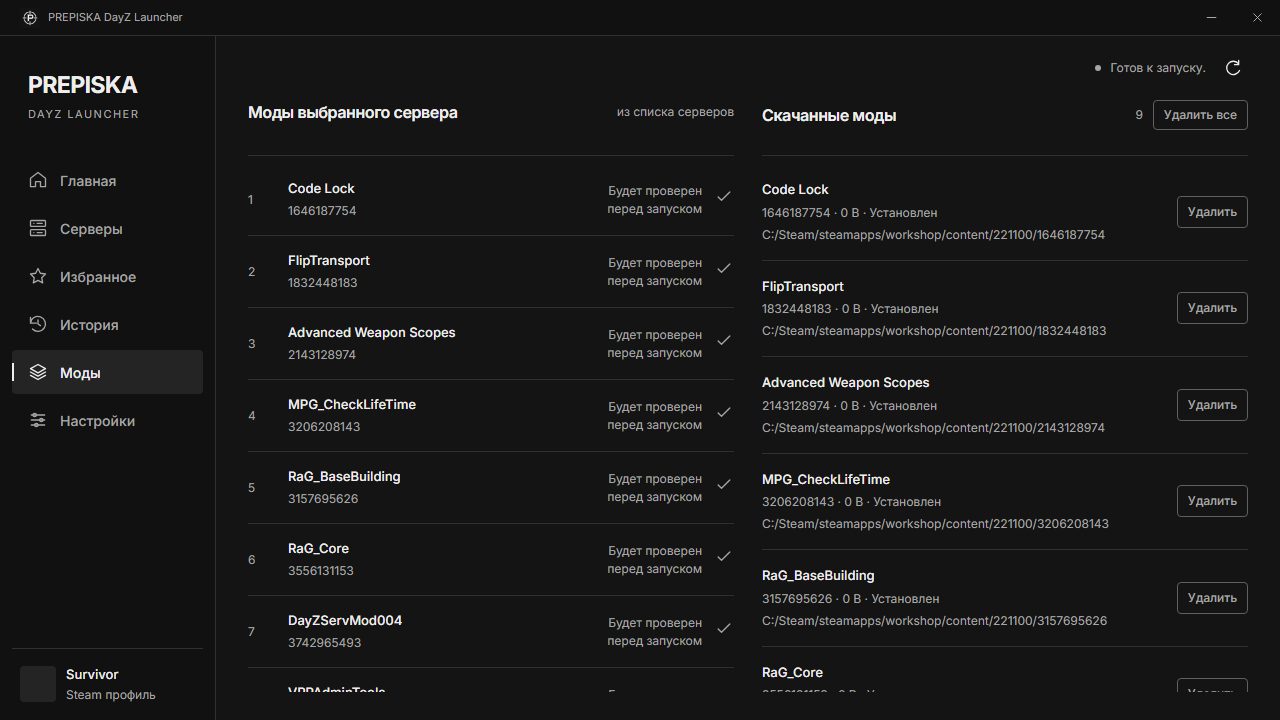
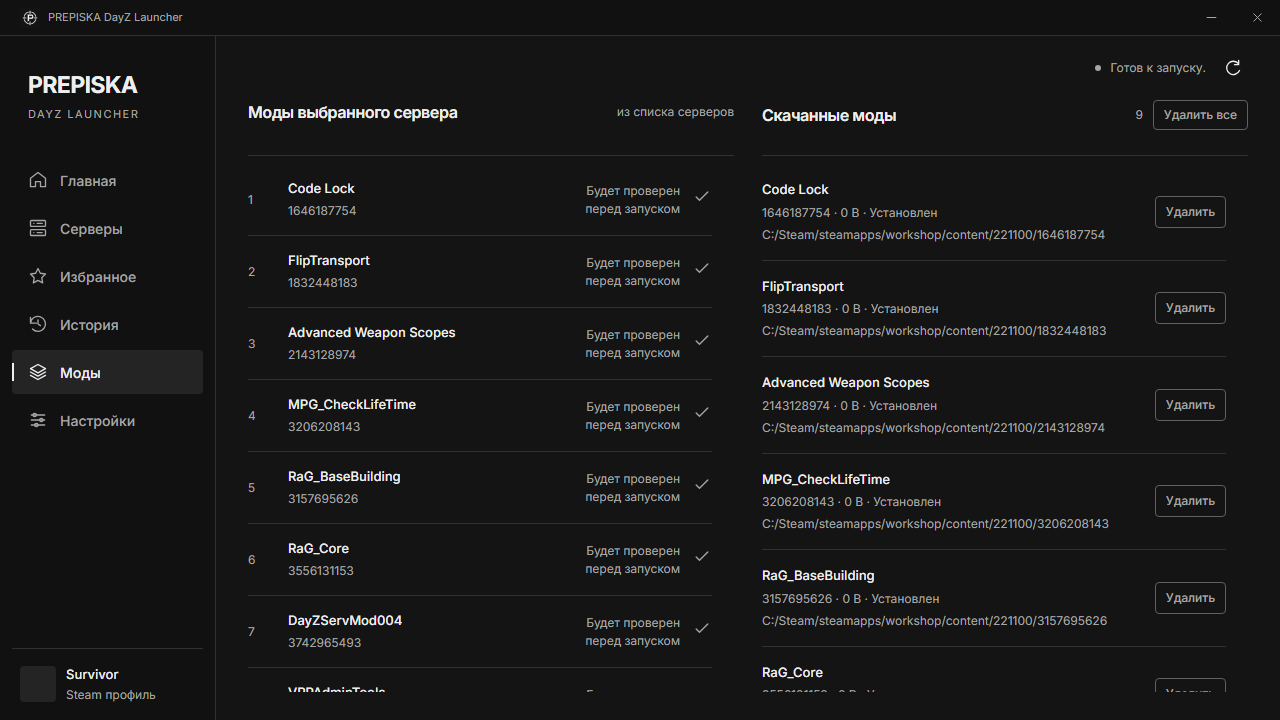
Add spacing before list scrollbars; release launcher 1.2.4

diff --git a/src/PrepiskaLauncher/Ui/styles.css b/src/PrepiskaLauncher/Ui/styles.css
@@ -81,7 +81,7 @@ svg { width: 20px; height: 20px; fill: none; stroke: currentColor; stroke-width:
 .filters input, .filters select, .field input, .field select { height: 36px; background: var(--sidebar); border: 1px solid var(--control-line); border-radius: var(--radius); color: var(--text); padding: 0 10px; }
 .filters input { width: clamp(150px, 20vw, 280px); }
 input::placeholder { color: var(--muted); }
-.server-list, #modsList, #installedModsList { flex: 1; min-height: 0; overflow: auto; scrollbar-width: thin; scrollbar-color: #606060 var(--bg); }
+.server-list, #modsList, #installedModsList { flex: 1; min-height: 0; overflow: auto; padding-right: 12px; scrollbar-gutter: stable; scrollbar-width: thin; scrollbar-color: #606060 var(--bg); }
 .server { position: relative; width: 100%; min-height: 76px; border: 0; border-bottom: 1px solid var(--line); color: var(--text); padding: 12px 52px 12px 12px; text-align: left; cursor: pointer; }
 .server:hover { background: var(--surface); }
 .server.active { background: var(--hover); box-shadow: inset 2px 0 var(--accent); }
